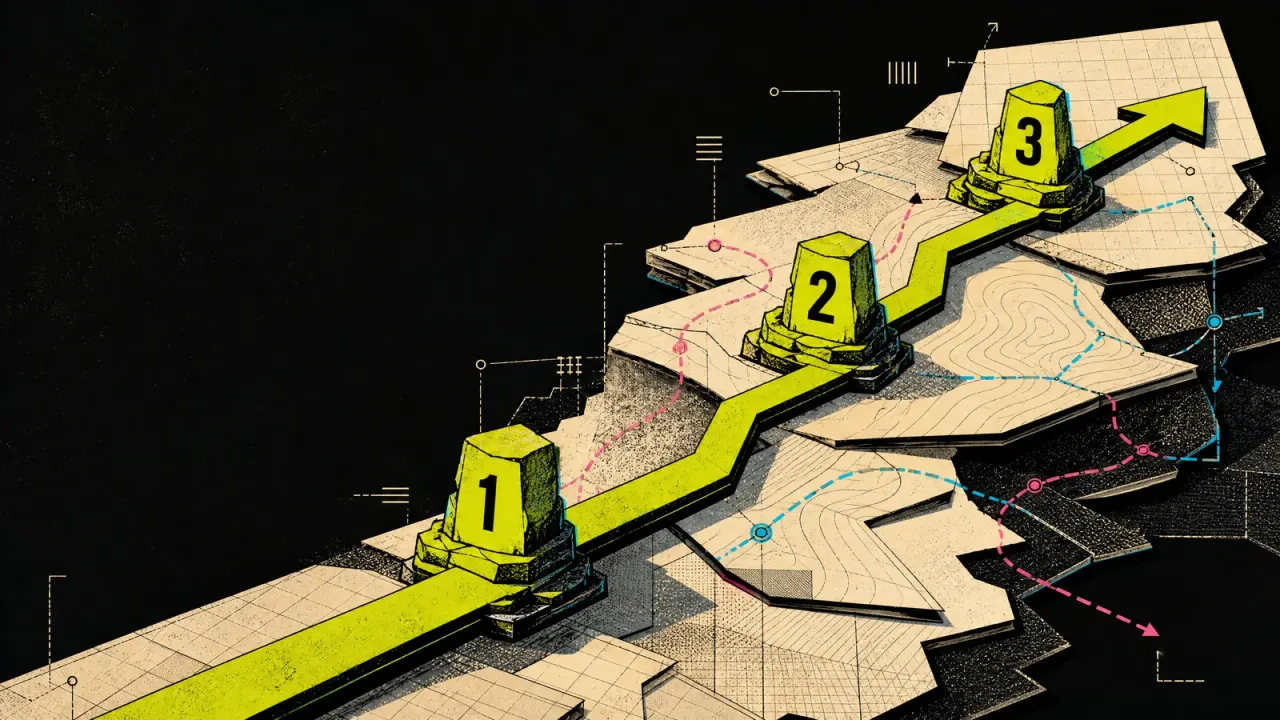
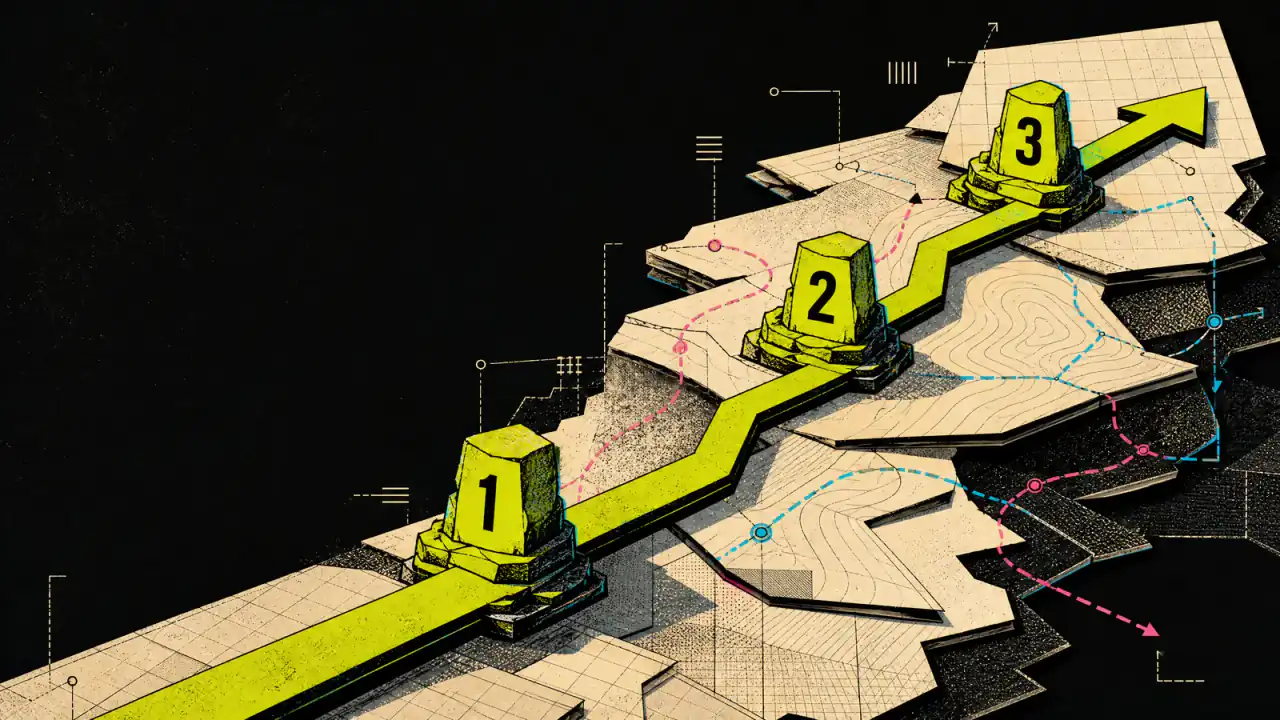
PageSpeed: stop shipping injected tags, split the bundle, lighter hero
Prerender: the crawl captured the DOM after the tag loaders had run, so the
shipped HTML carried gtag, Clarity and HeyCatch's tracing-headers.js in <head>
(the last one render-blocking), modulepreloads for lazy chunks, and the toast
stylesheet. index.html's idle loader then added gtag a second time. Strip all
of it from the captured HTML; the page loads each one itself after load.

Bundle: every internal link is a full page load, so a visit renders one page.
Pages other than Home and the es/fr strings are now their own chunks, resolved
before the first render so the prerendered HTML never blanks. Main bundle
120 KB -> 90 KB gzip; Roadmap's CSS left the render-blocking stylesheet.

Also: /api/beta-count waits until the beta form is near the viewport, hero
variants re-encoded at quality 50 (960w: 78 KB -> 52 KB, visually identical),
and /media and /brand cache for 30 days, up from 1.

Changed region(s): [[0.5938, 0.4278, 0.6562, 0.5194], [0.75, 0.2139, 0.7812, 0.275], [0.3438, 0.7333, 0.375, 0.7639]]

diff --git a/client/src/App.tsx b/client/src/App.tsx
@@ -2,20 +2,11 @@
  * CairnCareers revision style note: preserve the brand's editorial utility look,
  * with a light document surface and a decisive near-black hero.
  */
-import { lazy, Suspense } from "react";
-import { Route, Switch } from "wouter";
+import { lazy, Suspense, type ComponentType } from "react";
 import CanonicalUrl from "./components/CanonicalUrl";
 import ErrorBoundary from "./components/ErrorBoundary";
 import { ThemeProvider } from "./contexts/ThemeContext";
-import Compare from "./pages/Compare";
-import Contact from "./pages/Contact";
 import Home from "./pages/Home";
-import Methodology from "./pages/Methodology";
-import NotFound from "./pages/NotFound";
-import Privacy from "./pages/Privacy";
-import Refunds from "./pages/Refunds";
-import Roadmap from "./pages/Roadmap";
-import Terms from "./pages/Terms";
 
 // The toast library only matters once a form is submitted, so it loads in its
 // own chunk instead of sitting in the bundle every visitor parses before the
@@ -25,25 +16,38 @@ const Toaster = lazy(() => import("@/components/ui/sonner").then((m) => ({ defau
 // NOTE: every path below must also appear in the ROUTES list in
 // scripts/prerender.mjs. wrangler serves real 404s, so a route that is not
 // prerendered is a live 404 rather than a client-side render.
-function AppRoutes() {
-  return (
-    <Switch>
-      <Route path="/" component={Home} />
-      <Route path="/roadmap" component={Roadmap} />
-      <Route path="/methodology" component={Methodology} />
-      <Route path="/vs/chatgpt">{() => <Compare slug="chatgpt" />}</Route>
-      <Route path="/vs/careerwing">{() => <Compare slug="careerwing" />}</Route>
-      <Route path="/vs/career-mirror">{() => <Compare slug="career-mirror" />}</Route>
-      <Route path="/vs/maketheleap">{() => <Compare slug="maketheleap" />}</Route>
-      <Route path="/contact" component={Contact} />
-      <Route path="/privacy" component={Privacy} />
-      <Route path="/terms" component={Terms} />
-      <Route path="/refunds" component={Refunds} />
-      <Route path="/404" component={NotFound} />
-      {/* Final fallback route */}
-      <Route component={NotFound} />
-    </Switch>
-  );
+//
+// ONE PAGE PER VISIT
+// Every internal link is a plain <a href>, so each navigation is a full page
+// load and a visit only ever renders one of these. Importing all of them put
+// every page's code in the bundle the homepage parses before it is
+// interactive. Home stays in the main bundle because it is the landing page
+// and must not wait on a second request; every other page is its own chunk.
+//
+// main.tsx calls loadPage() and waits for it BEFORE the first render. That is
+// deliberate: React.lazy would render nothing while the chunk loads, which
+// wipes the prerendered HTML and paints it again a moment later.
+type Page = ComponentType;
+const compare = (slug: string) => () => import("./pages/Compare").then((m): Page => () => <m.default slug={slug} />);
+
+const PAGES: Record<string, () => Promise<Page>> = {
+  "/": () => Promise.resolve(Home),
+  "/roadmap": () => import("./pages/Roadmap").then((m) => m.default),
+  "/methodology": () => import("./pages/Methodology").then((m) => m.default),
+  "/vs/chatgpt": compare("chatgpt"),
+  "/vs/careerwing": compare("careerwing"),
+  "/vs/career-mirror": compare("career-mirror"),
+  "/vs/maketheleap": compare("maketheleap"),
+  "/contact": () => import("./pages/Contact").then((m) => m.default),
+  "/privacy": () => import("./pages/Privacy").then((m) => m.default),
+  "/terms": () => import("./pages/Terms").then((m) => m.default),
+  "/refunds": () => import("./pages/Refunds").then((m) => m.default),
+};
+
+export function loadPage(pathname: string): Promise<Page> {
+  const path = pathname === "/" ? "/" : pathname.replace(/\/+$/, "");
+  const load = PAGES[path] ?? (() => import("./pages/NotFound").then((m) => m.default));
+  return load();
 }
 
 // NOTE: About Theme
@@ -51,7 +55,7 @@ function AppRoutes() {
 //   to keep consistent foreground/background color across components
 // - If you want to make theme switchable, pass `switchable` ThemeProvider and use `useTheme` hook
 
-function App() {
+function App({ Page }: { Page: ComponentType }) {
   return (
     <ErrorBoundary>
       <ThemeProvider defaultTheme="light">
@@ -59,7 +63,7 @@ function App() {
           <Toaster position="bottom-right" richColors />
         </Suspense>
         <CanonicalUrl />
-        <AppRoutes />
+        <Page />
       </ThemeProvider>
     </ErrorBoundary>
   );

diff --git a/client/src/lib/i18n.tsx b/client/src/lib/i18n.tsx
@@ -10,12 +10,23 @@
 import { createContext, useCallback, useContext, useEffect, useMemo, useState, type ReactNode } from "react";
 import { type Currency, type Geo, type Lang, LANGS, RATES, isLang } from "./geo";
 import { en } from "./translations/en";
-import { es } from "./translations/es";
-import { fr } from "./translations/fr";
 
 export type Strings = typeof en;
 
-const STRINGS: Record<Lang, Strings> = { en, es, fr };
+// English ships in the main bundle: it is the prerendered language and the
+// fallback. Spanish and French are a chunk each, fetched only by a visitor
+// who reads that language, so everyone else stops paying for both.
+const STRINGS: Partial<Record<Lang, Strings>> = { en };
+const LOADERS: Record<Exclude<Lang, "en">, () => Promise<Strings>> = {
+  es: () => import("./translations/es").then((m) => m.es),
+  fr: () => import("./translations/fr").then((m) => m.fr),
+};
+
+/** Fetches a language's strings if they are not in memory yet. Never rejects: on failure the page stays in English. */
+export function loadStrings(lang: Lang): Promise<void> {
+  if (lang === "en" || STRINGS[lang]) return Promise.resolve();
+  return LOADERS[lang]().then((strings) => { STRINGS[lang] = strings; }).catch(() => {});
+}
 const STORAGE_KEY = "cairn-lang";
 
 declare global {
@@ -28,7 +39,7 @@ function readGeo(): Geo | undefined {
   return typeof window === "undefined" ? undefined : window.__cairnGeo;
 }
 
-function initialLang(): Lang {
+export function initialLang(): Lang {
   if (typeof window === "undefined") return "en";
   try {
     const saved = localStorage.getItem(STORAGE_KEY);
@@ -73,7 +84,9 @@ export function I18nProvider({ children }: { children: ReactNode }) {
   }, []);
 
   const setLang = useCallback((next: Lang) => {
-    setLangState(next);
+    // Switch only once the strings are here, so the page never renders a
+    // language it does not have.
+    loadStrings(next).then(() => setLangState(next));
     try {
       localStorage.setItem(STORAGE_KEY, next);
     } catch {
@@ -103,7 +116,7 @@ export function I18nProvider({ children }: { children: ReactNode }) {
     [currency, lang],
   );
 
-  const value = useMemo<I18n>(() => ({ lang, setLang, t: STRINGS[lang], currency, price }), [lang, setLang, currency, price]);
+  const value = useMemo<I18n>(() => ({ lang, setLang, t: STRINGS[lang] ?? en, currency, price }), [lang, setLang, currency, price]);
   return <I18nContext.Provider value={value}>{children}</I18nContext.Provider>;
 }
 

diff --git a/client/src/pages/Home.tsx b/client/src/pages/Home.tsx
@@ -250,12 +250,23 @@ export default function Home() {
   useEffect(() => {
     // The Worker answers null until the count is worth showing (see
     // handleBetaCount in worker/index.ts), and no counter beats a broken one.
-    fetch("/api/beta-count")
-      .then((response) => (response.ok ? response.json() : null))
-      .then((data: { count?: number | null } | null) => {
-        if (typeof data?.count === "number") setBetaCount(data.count);
-      })
-      .catch(() => {});
+    // The beta form sits far below the fold, so the request waits until the
+    // visitor scrolls near it. Fired on mount, it sat in the critical request
+    // chain of a page whose first job is to paint a headline.
+    const section = document.getElementById("beta-access");
+    if (!section || !("IntersectionObserver" in window)) return;
+    const observer = new IntersectionObserver((entries) => {
+      if (!entries.some((entry) => entry.isIntersecting)) return;
+      observer.disconnect();
+      fetch("/api/beta-count")
+        .then((response) => (response.ok ? response.json() : null))
+        .then((data: { count?: number | null } | null) => {
+          if (typeof data?.count === "number") setBetaCount(data.count);
+        })
+        .catch(() => {});
+    }, { rootMargin: "800px 0px" });
+    observer.observe(section);
+    return () => observer.disconnect();
   }, []);
 
   useEffect(() => {

diff --git a/worker/index.ts b/worker/index.ts
@@ -423,14 +423,17 @@ const SECURITY_HEADERS: Record<string, string> = {
  * revalidated the hashed JS and CSS bundles and the 242 KB hero image on every
  * navigation. Vite fingerprints everything under /assets/, so those filenames
  * change whenever their contents do and can be cached permanently. Files under
- * /media and /brand keep their names across edits, so they get a day of
- * freshness plus a week of stale-while-revalidate rather than immutability.
+ * /media and /brand keep their names across edits, so they are not immutable,
+ * but they change a few times a year at most: 30 days of freshness plus a
+ * week of stale-while-revalidate. A day was short enough that most returning
+ * visitors downloaded the hero image again. When you replace one of these
+ * files and need it seen at once, give it a new file name.
  * HTML keeps must-revalidate: prerendered pages change without changing URL.
  */
 function cacheControlFor(pathname: string): string | null {
   if (pathname.startsWith("/assets/")) return "public, max-age=31536000, immutable";
   if (pathname.startsWith("/media/") || pathname.startsWith("/brand/")) {
-    return "public, max-age=86400, stale-while-revalidate=604800";
+    return "public, max-age=2592000, stale-while-revalidate=604800";
   }
   if (/\.(txt|xml)$/.test(pathname)) return "public, max-age=3600";
   return null;

diff --git a/client/src/main.tsx b/client/src/main.tsx
@@ -1,15 +1,20 @@
 import { createRoot } from "react-dom/client";
-import App from "./App";
+import App, { loadPage } from "./App";
 import "./index.css";
 import "./hero-unfurl.css";
-import { I18nProvider } from "./lib/i18n";
+import { I18nProvider, initialLang, loadStrings } from "./lib/i18n";
 import { scheduleAnalytics } from "./lib/analytics";
 
 // Analytics loads after first paint; see lib/analytics.ts for why.
 scheduleAnalytics();
 
-createRoot(document.getElementById("root")!).render(
-  <I18nProvider>
-    <App />
-  </I18nProvider>,
-);
+// Wait for this page's code and this visitor's language before the first
+// render. Until then the prerendered HTML stays on screen untouched; rendering
+// early would replace it with an empty page and then fill it back in.
+Promise.all([loadPage(window.location.pathname), loadStrings(initialLang())]).then(([Page]) => {
+  createRoot(document.getElementById("root")!).render(
+    <I18nProvider>
+      <App Page={Page} />
+    </I18nProvider>,
+  );
+});
